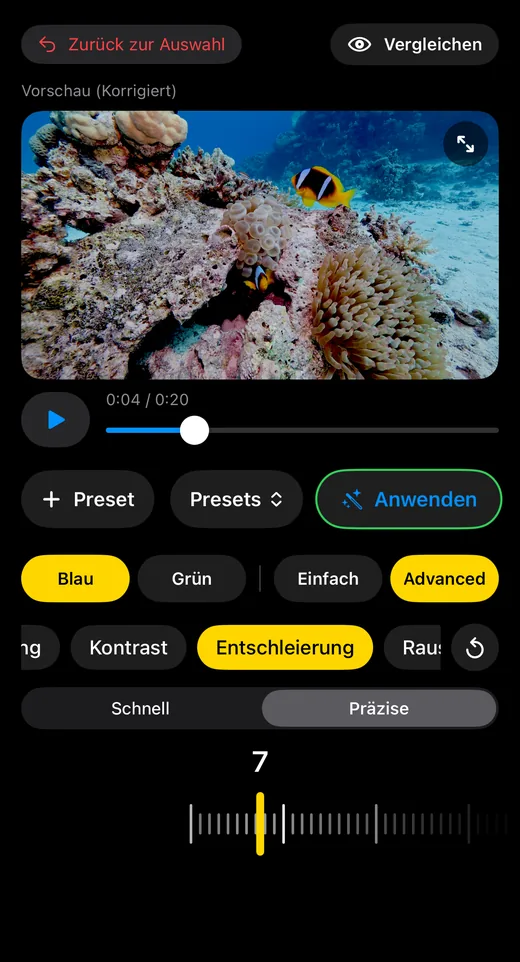
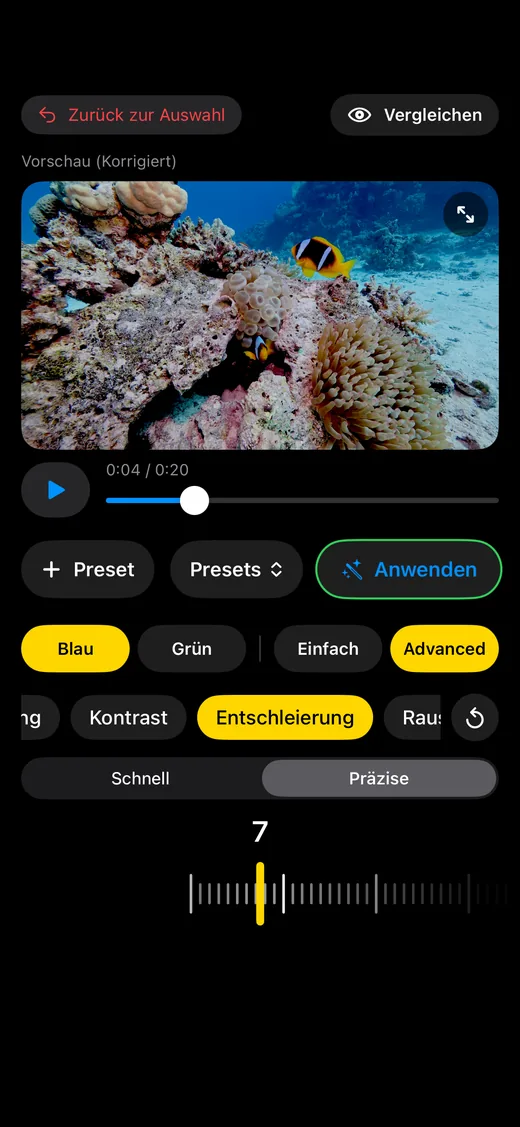
Add example gallery, how-it-works section and iPhone frames

diff --git a/de/index.html b/de/index.html
@@ -134,10 +134,10 @@
     <div class="wrap">
       <h2 id="how-title">So funktioniert’s</h2>
       <ol class="steps">
-        <li class="step"><img src="../assets/app-de-1.webp" width="520" height="962" loading="lazy" alt="Reef Tone fragt „Wie war das Wasser?“ mit den Auswahlfeldern Blau und Grün"><h3><span class="num">1</span>Wasserfarbe wählen</h3><p>Blau oder Grün: Sag Reef Tone, wie das Wasser aussah.</p></li>
-        <li class="step"><img src="../assets/app-de-2.webp" width="520" height="962" loading="lazy" alt="Reef-Tone-Vorschau einer Anemonenfisch-Szene mit Intensitätsregler im einfachen Modus"><h3><span class="num">2</span>Intensität einstellen</h3><p>Im einfachen Modus genügt ein Regler. Vergleiche vor dem Speichern mit dem Original.</p></li>
-        <li class="step"><img src="../assets/app-de-3.webp" width="520" height="962" loading="lazy" alt="Reef Tone im erweiterten Modus mit Reglern für Entschleierung"><h3><span class="num">3</span>Bei Bedarf feinjustieren</h3><p>Der erweiterte Modus bietet mehr Regler, etwa Sättigung, Kontrast, Entschleierung und Rauschen.</p></li>
-        <li class="step"><img src="../assets/app-de-4.webp" width="520" height="962" loading="lazy" alt="Reef-Tone-Stapelvorschau, Video 3 von 3, mit der Schaltfläche Alle 3"><h3><span class="num">4</span>Ein Video oder viele<span class="badge">Pro</span></h3><p>Verarbeite ein einzelnes Video oder gleich einen ganzen Stapel.</p></li>
+        <li class="step"><div class="phone"><i class="b1"></i><i class="b2"></i><i class="b3"></i><i class="pw"></i><img src="../assets/app-de-1.webp" width="520" height="1127" loading="lazy" alt="Reef Tone fragt „Wie war das Wasser?“ mit den Auswahlfeldern Blau und Grün"></div><h3><span class="num">1</span>Wasserfarbe wählen</h3><p>Blau oder Grün: Sag Reef Tone, wie das Wasser aussah.</p></li>
+        <li class="step"><div class="phone"><i class="b1"></i><i class="b2"></i><i class="b3"></i><i class="pw"></i><img src="../assets/app-de-2.webp" width="520" height="1127" loading="lazy" alt="Reef-Tone-Vorschau einer Anemonenfisch-Szene mit Intensitätsregler im einfachen Modus"></div><h3><span class="num">2</span>Intensität einstellen</h3><p>Im einfachen Modus genügt ein Regler. Vergleiche vor dem Speichern mit dem Original.</p></li>
+        <li class="step"><div class="phone"><i class="b1"></i><i class="b2"></i><i class="b3"></i><i class="pw"></i><img src="../assets/app-de-3.webp" width="520" height="1127" loading="lazy" alt="Reef Tone im erweiterten Modus mit Reglern für Entschleierung"></div><h3><span class="num">3</span>Bei Bedarf feinjustieren</h3><p>Der erweiterte Modus bietet mehr Regler, etwa Sättigung, Kontrast, Entschleierung und Rauschen.</p></li>
+        <li class="step"><div class="phone"><i class="b1"></i><i class="b2"></i><i class="b3"></i><i class="pw"></i><img src="../assets/app-de-4.webp" width="520" height="1127" loading="lazy" alt="Reef-Tone-Stapelvorschau, Video 3 von 3, mit der Schaltfläche Alle 3"></div><h3><span class="num">4</span>Ein Video oder viele<span class="badge">Pro</span></h3><p>Verarbeite ein einzelnes Video oder gleich einen ganzen Stapel.</p></li>
       </ol>
     </div>
   </section>

diff --git a/index.html b/index.html
@@ -134,10 +134,10 @@
     <div class="wrap">
       <h2 id="how-title">How it works</h2>
       <ol class="steps">
-        <li class="step"><img src="assets/app-en-1.webp" width="520" height="962" loading="lazy" alt="Reef Tone asks "How was the water?" with the choices Blue and Green"><h3><span class="num">1</span>Choose the water</h3><p>Blue or green: tell Reef Tone what the water looked like.</p></li>
-        <li class="step"><img src="assets/app-en-2.webp" width="520" height="962" loading="lazy" alt="Reef Tone preview of a clownfish scene with an intensity slider in simple mode"><h3><span class="num">2</span>Set the intensity</h3><p>Simple mode needs one slider. Compare with the original before you save.</p></li>
-        <li class="step"><img src="assets/app-en-3.webp" width="520" height="962" loading="lazy" alt="Reef Tone advanced mode with dehazing controls"><h3><span class="num">3</span>Fine-tune if you like</h3><p>Advanced mode adds more controls such as saturation, contrast, dehazing and noise.</p></li>
-        <li class="step"><img src="assets/app-en-4.webp" width="520" height="962" loading="lazy" alt="Reef Tone batch preview, video 3 of 3, with an All 3 button"><h3><span class="num">4</span>One clip or many<span class="badge">Pro</span></h3><p>Process a single video or a whole batch at once.</p></li>
+        <li class="step"><div class="phone"><i class="b1"></i><i class="b2"></i><i class="b3"></i><i class="pw"></i><img src="assets/app-en-1.webp" width="520" height="1127" loading="lazy" alt="Reef Tone asks "How was the water?" with the choices Blue and Green"></div><h3><span class="num">1</span>Choose the water</h3><p>Blue or green: tell Reef Tone what the water looked like.</p></li>
+        <li class="step"><div class="phone"><i class="b1"></i><i class="b2"></i><i class="b3"></i><i class="pw"></i><img src="assets/app-en-2.webp" width="520" height="1127" loading="lazy" alt="Reef Tone preview of a clownfish scene with an intensity slider in simple mode"></div><h3><span class="num">2</span>Set the intensity</h3><p>Simple mode needs one slider. Compare with the original before you save.</p></li>
+        <li class="step"><div class="phone"><i class="b1"></i><i class="b2"></i><i class="b3"></i><i class="pw"></i><img src="assets/app-en-3.webp" width="520" height="1127" loading="lazy" alt="Reef Tone advanced mode with dehazing controls"></div><h3><span class="num">3</span>Fine-tune if you like</h3><p>Advanced mode adds more controls such as saturation, contrast, dehazing and noise.</p></li>
+        <li class="step"><div class="phone"><i class="b1"></i><i class="b2"></i><i class="b3"></i><i class="pw"></i><img src="assets/app-en-4.webp" width="520" height="1127" loading="lazy" alt="Reef Tone batch preview, video 3 of 3, with an All 3 button"></div><h3><span class="num">4</span>One clip or many<span class="badge">Pro</span></h3><p>Process a single video or a whole batch at once.</p></li>
       </ol>
     </div>
   </section>

diff --git a/style.css b/style.css
@@ -150,7 +150,16 @@ h2 { font-size: clamp(1.5rem, 5vw, 2.1rem); line-height: 1.2; margin: 0 0 12px; 
 /* How it works: app screenshots */
 .steps { list-style: none; margin: 32px 0 0; padding: 0; display: flex; gap: 16px; overflow-x: auto; scroll-snap-type: x mandatory; -webkit-overflow-scrolling: touch; padding-bottom: 8px; }
 .step { flex: 0 0 68%; max-width: 280px; scroll-snap-align: center; }
-.step img { width: 100%; height: auto; border-radius: 22px; border: 1px solid var(--line); background: #000; margin-bottom: 14px; }
+/* Generic CSS iPhone frame (no Apple artwork): bezel, Dynamic Island, side buttons, home bar */
+.phone { position: relative; margin: 0 8px 18px; padding: 3.2%; background: linear-gradient(145deg, #3a3d42, #16181b 40%, #2a2d31); border-radius: 15% / 6.9%; box-shadow: 0 0 0 1px #4a4e54 inset, 0 14px 34px rgba(0,0,0,.55); }
+.phone img { display: block; width: 100%; height: auto; aspect-ratio: 520 / 1127; border-radius: 11.6% / 5.3%; background: #000; }
+.phone::before { content: ""; position: absolute; z-index: 1; top: 5.4%; left: 50%; width: 29%; height: 2.5%; transform: translateX(-50%); background: #000; border-radius: 999px; }
+.phone::after { content: ""; position: absolute; z-index: 1; bottom: 4.6%; left: 50%; width: 34%; height: .5%; min-height: 3px; transform: translateX(-50%); background: rgba(255,255,255,.55); border-radius: 999px; }
+.phone i { position: absolute; width: 1.2%; background: #2a2d31; border-radius: 2px; }
+.phone i.b1 { left: -1%; top: 17%; height: 4%; }
+.phone i.b2 { left: -1%; top: 24%; height: 7%; }
+.phone i.b3 { left: -1%; top: 33%; height: 7%; }
+.phone i.pw { right: -1%; top: 27%; height: 11%; }
 .step h3 { margin: 0 0 6px; font-size: 1.05rem; }
 .step .num { display: inline-flex; align-items: center; justify-content: center; width: 24px; height: 24px; margin-right: 8px; border-radius: 50%; background: var(--accent); color: var(--accent-ink); font-size: .8rem; }
 .step p { margin: 0; color: var(--muted); font-size: .95rem; }
